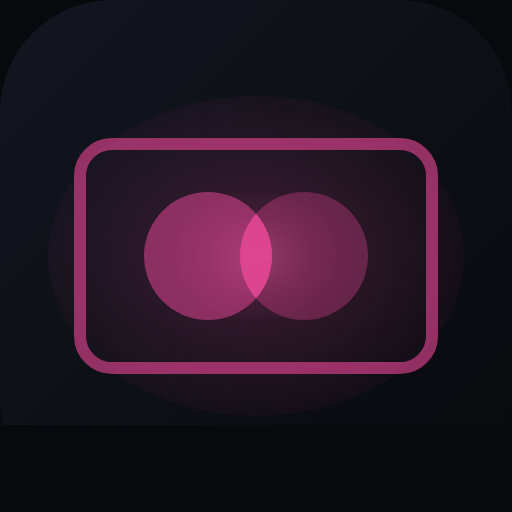
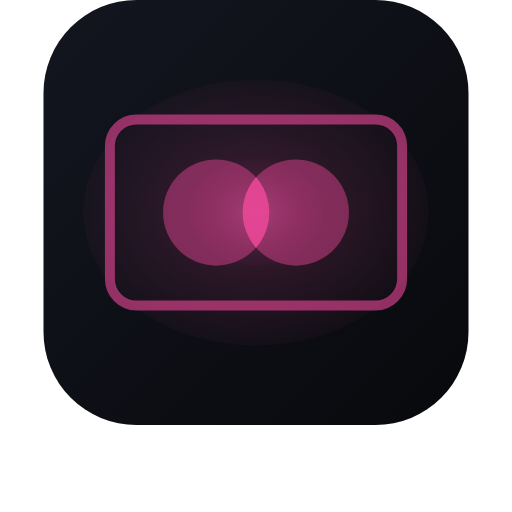
Harmonize brand circle treatments

diff --git a/index.html b/index.html
@@ -16,9 +16,9 @@
     <meta property="og:title" content="Matchboxd — Stop scrolling. Start watching." />
     <meta property="og:description" content="Movies you both want to watch, with ratings and where to stream." />
     <meta property="og:url" content="https://matchboxd.com/" />
-    <meta property="og:image" content="https://matchboxd.com/social-preview.jpg?v=5" />
-    <meta property="og:image:url" content="https://matchboxd.com/social-preview.jpg?v=5" />
-    <meta property="og:image:secure_url" content="https://matchboxd.com/social-preview.jpg?v=5" />
+    <meta property="og:image" content="https://matchboxd.com/social-preview.jpg?v=6" />
+    <meta property="og:image:url" content="https://matchboxd.com/social-preview.jpg?v=6" />
+    <meta property="og:image:secure_url" content="https://matchboxd.com/social-preview.jpg?v=6" />
     <meta property="og:image:type" content="image/jpeg" />
     <meta property="og:image:width" content="1200" />
     <meta property="og:image:height" content="630" />
@@ -26,8 +26,8 @@
     <meta name="twitter:card" content="summary_large_image" />
     <meta name="twitter:title" content="Matchboxd — Stop scrolling. Start watching." />
     <meta name="twitter:description" content="Movies you both want to watch, with ratings and where to stream." />
-    <meta name="twitter:image" content="https://matchboxd.com/social-preview.jpg?v=5" />
-    <meta name="twitter:image:src" content="https://matchboxd.com/social-preview.jpg?v=5" />
+    <meta name="twitter:image" content="https://matchboxd.com/social-preview.jpg?v=6" />
+    <meta name="twitter:image:src" content="https://matchboxd.com/social-preview.jpg?v=6" />
     <meta name="twitter:image:alt" content="Matchboxd logo and tagline on a dark background" />
     <meta name="apple-mobile-web-app-capable" content="yes" />
     <meta name="apple-mobile-web-app-status-bar-style" content="black-translucent" />

diff --git a/tailwind.config.js b/tailwind.config.js
@@ -69,12 +69,12 @@ export default {
           '100%': { backgroundPosition: '200% 0' },
         },
         matchLeft: {
-          '0%, 100%': { transform: 'translateX(-16px)', opacity: '0.5', boxShadow: '0 0 0 rgba(236, 72, 153, 0)' },
-          '50%': { transform: 'translateX(8px)', opacity: '0.9', boxShadow: '0 0 12px rgba(236, 72, 153, 0.5)' },
+          '0%, 100%': { transform: 'translateX(-16px)', opacity: '0.45', boxShadow: '0 0 0 rgba(236, 72, 153, 0)' },
+          '50%': { transform: 'translateX(8px)', opacity: '0.78', boxShadow: '0 0 12px rgba(236, 72, 153, 0.5)' },
         },
         matchRight: {
-          '0%, 100%': { transform: 'translateX(16px)', opacity: '0.5', boxShadow: '0 0 0 rgba(236, 72, 153, 0)' },
-          '50%': { transform: 'translateX(-8px)', opacity: '0.9', boxShadow: '0 0 12px rgba(236, 72, 153, 0.5)' },
+          '0%, 100%': { transform: 'translateX(16px)', opacity: '0.45', boxShadow: '0 0 0 rgba(236, 72, 153, 0)' },
+          '50%': { transform: 'translateX(-8px)', opacity: '0.78', boxShadow: '0 0 12px rgba(236, 72, 153, 0.5)' },
         },
       },
     },

diff --git a/src/components/Header.tsx b/src/components/Header.tsx
@@ -70,12 +70,11 @@ function Logo() {
       >
         {/* Film frame */}
         <rect x="3" y="5" width="18" height="14" rx="2" stroke="#ec4899" strokeWidth="1.5" strokeOpacity="0.75" />
-        {/* Left circle — User A */}
-        <circle cx="9.5" cy="12" r="3.5" fill="#ec4899" fillOpacity="0.55" />
-        {/* Right circle — User B */}
-        <circle cx="14.5" cy="12" r="3.5" fill="#ec4899" fillOpacity="0.30" />
+        {/* Equal participants; the overlap is the brightest point in the mark. */}
+        <circle cx="9.5" cy="12" r="3.5" fill="#ec4899" fillOpacity="0.45" />
+        <circle cx="14.5" cy="12" r="3.5" fill="#ec4899" fillOpacity="0.45" />
         {/* Intersection lens: y=±√(3.5²−2.5²)=±√6≈±2.449 → 9.55 and 14.45 */}
-        <path d="M 12 9.55 A 3.5 3.5 0 0 1 12 14.45 A 3.5 3.5 0 0 1 12 9.55 Z" fill="#ec4899" fillOpacity="0.82" />
+        <path d="M 12 9.55 A 3.5 3.5 0 0 1 12 14.45 A 3.5 3.5 0 0 1 12 9.55 Z" fill="#ec4899" fillOpacity="0.78" />
       </svg>
     </div>
   );

diff --git a/src/features/pair/PairLoadingPage.tsx b/src/features/pair/PairLoadingPage.tsx
@@ -107,6 +107,7 @@ function MatchboxdLoader() {
     <div className="flex justify-center mb-5" aria-hidden>
       <div className="flex items-center justify-center w-24 h-14 rounded-xl border border-accent/30 shadow-matchbox-glow">
         <div className="relative flex items-center justify-center w-full h-full overflow-hidden rounded-xl">
+          {/* Equal participants in motion; only the overlap should feel brighter. */}
           <div className="absolute w-8 h-8 rounded-full bg-accent mix-blend-screen animate-match-left" />
           <div className="absolute w-8 h-8 rounded-full bg-accent mix-blend-screen animate-match-right" />
         </div>

diff --git a/README.md b/README.md
@@ -83,6 +83,13 @@ worker/
   deploy.yml                  GitHub Pages deploy
 ```
 
+## Brand Mark Note
+
+- Canonical accent pink is `#ec4899`.
+- `#f9a8d4` is reserved for overlap glow and supporting highlight, not for one participant.
+- The two participant circles are intentionally equal in hue and opacity.
+- The overlap should remain the brightest point in the mark.
+
 ## Local Development
 
 ### Prerequisites
